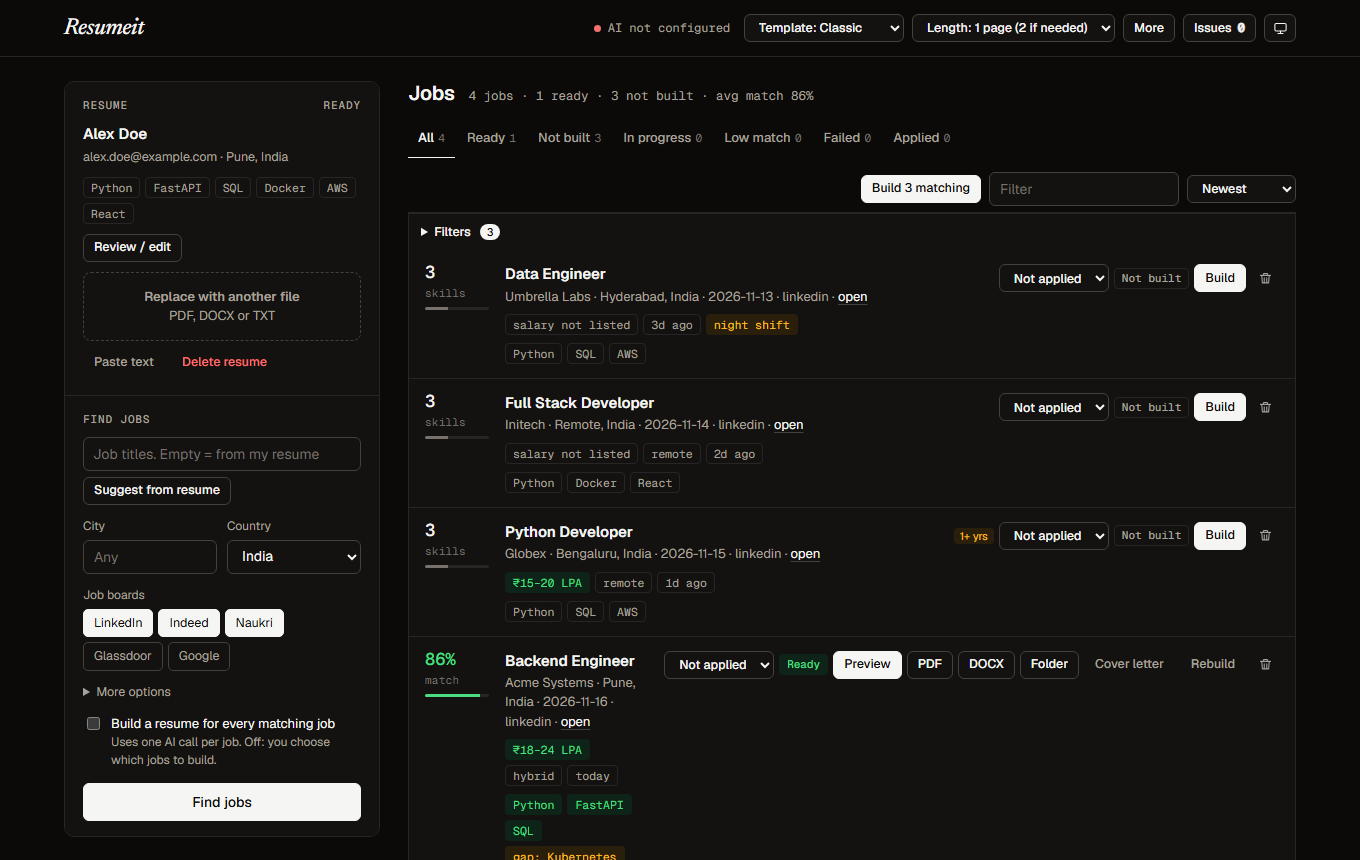
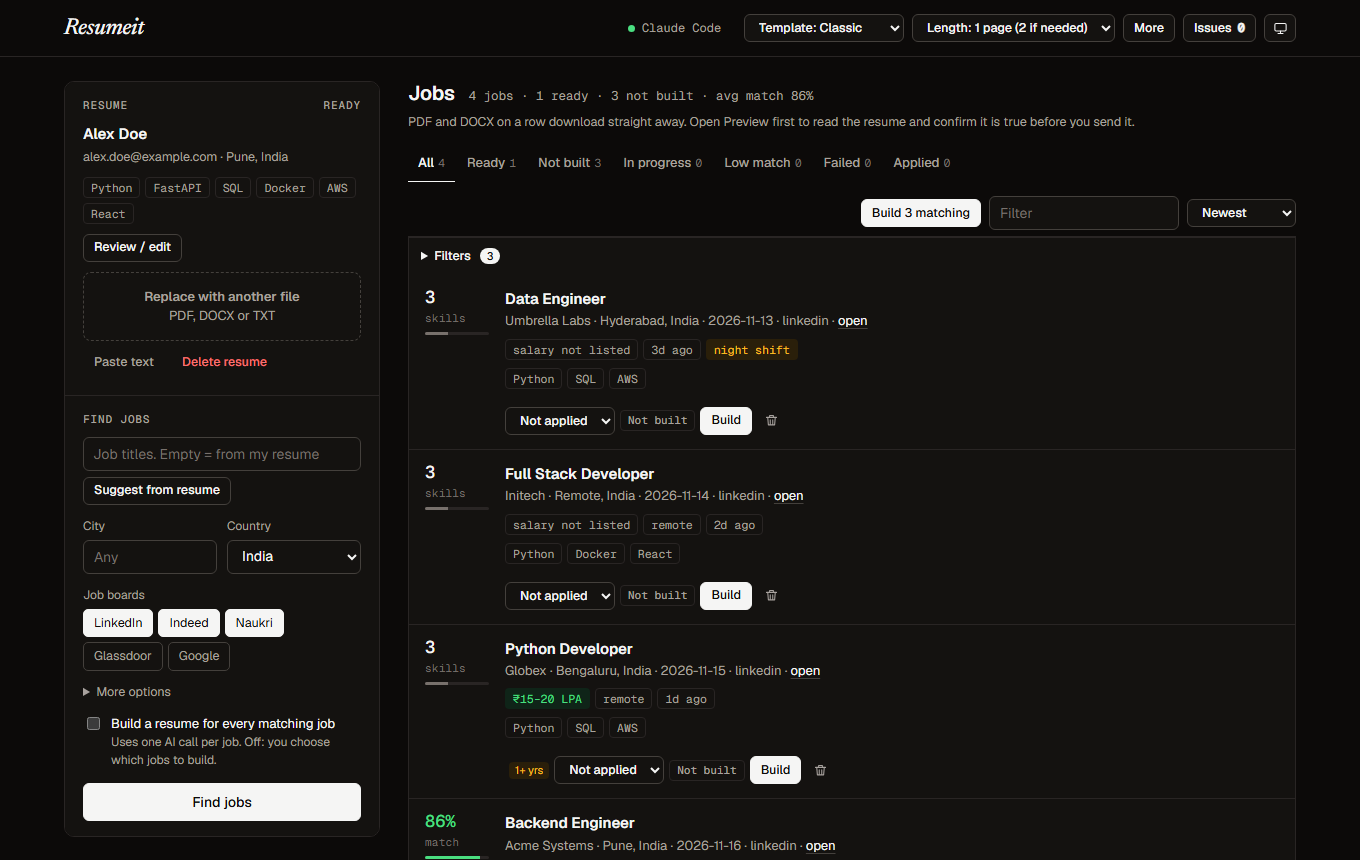
Job rows: actions under details so long rows no longer squeeze the text

diff --git a/static/index.html b/static/index.html
@@ -71,9 +71,10 @@ details summary{cursor:pointer;color:var(--mut);font-size:12.5px;margin-top:12px
 .tabs button b{font:400 11.5px var(--mono);margin-left:4px;color:var(--faint)}.tabs button:hover{color:var(--fg)}.tabs button.on{color:var(--fg);border-color:var(--ink)}
 .tools{display:flex;gap:8px;align-items:center;margin-left:auto;padding:6px 0;flex-wrap:wrap}.tools input{width:190px}.tools select{width:auto}
 .list{border:1px solid var(--line);border-top:0;background:var(--panel);border-radius:0 0 10px 10px}
-.job{display:grid;grid-template-columns:64px minmax(0,1fr) auto;gap:16px;padding:14px 16px;border-top:1px solid var(--line);align-items:start;transition:background .12s}
+.job{display:grid;grid-template-columns:64px minmax(0,1fr);gap:16px;padding:14px 16px;border-top:1px solid var(--line);align-items:start;transition:background .12s}
 .job:first-child{border-top:0}.job:hover{background:var(--hover)}
-@media(max-width:720px){.job{grid-template-columns:56px 1fr}.job .act{grid-column:1/-1}}
+.job .act{grid-column:2;justify-content:flex-start;margin-top:2px}
+@media(max-width:720px){.job{grid-template-columns:56px minmax(0,1fr);gap:10px 12px}}
 .fit{font:500 17px/1 var(--mono)}.fit small{display:block;font:11px var(--mono);color:var(--faint);margin-top:5px;letter-spacing:.02em}
 .fit .m{display:block;height:3px;border-radius:2px;background:var(--line);margin-top:7px;overflow:hidden}.fit .m i{display:block;height:100%;background:var(--faint)}
 .fit.hi{color:var(--ok)}.fit.hi .m i{background:var(--ok)}.fit.mid{color:var(--wa)}.fit.mid .m i{background:var(--wa)}.fit.lo{color:var(--er)}.fit.lo .m i{background:var(--er)}
